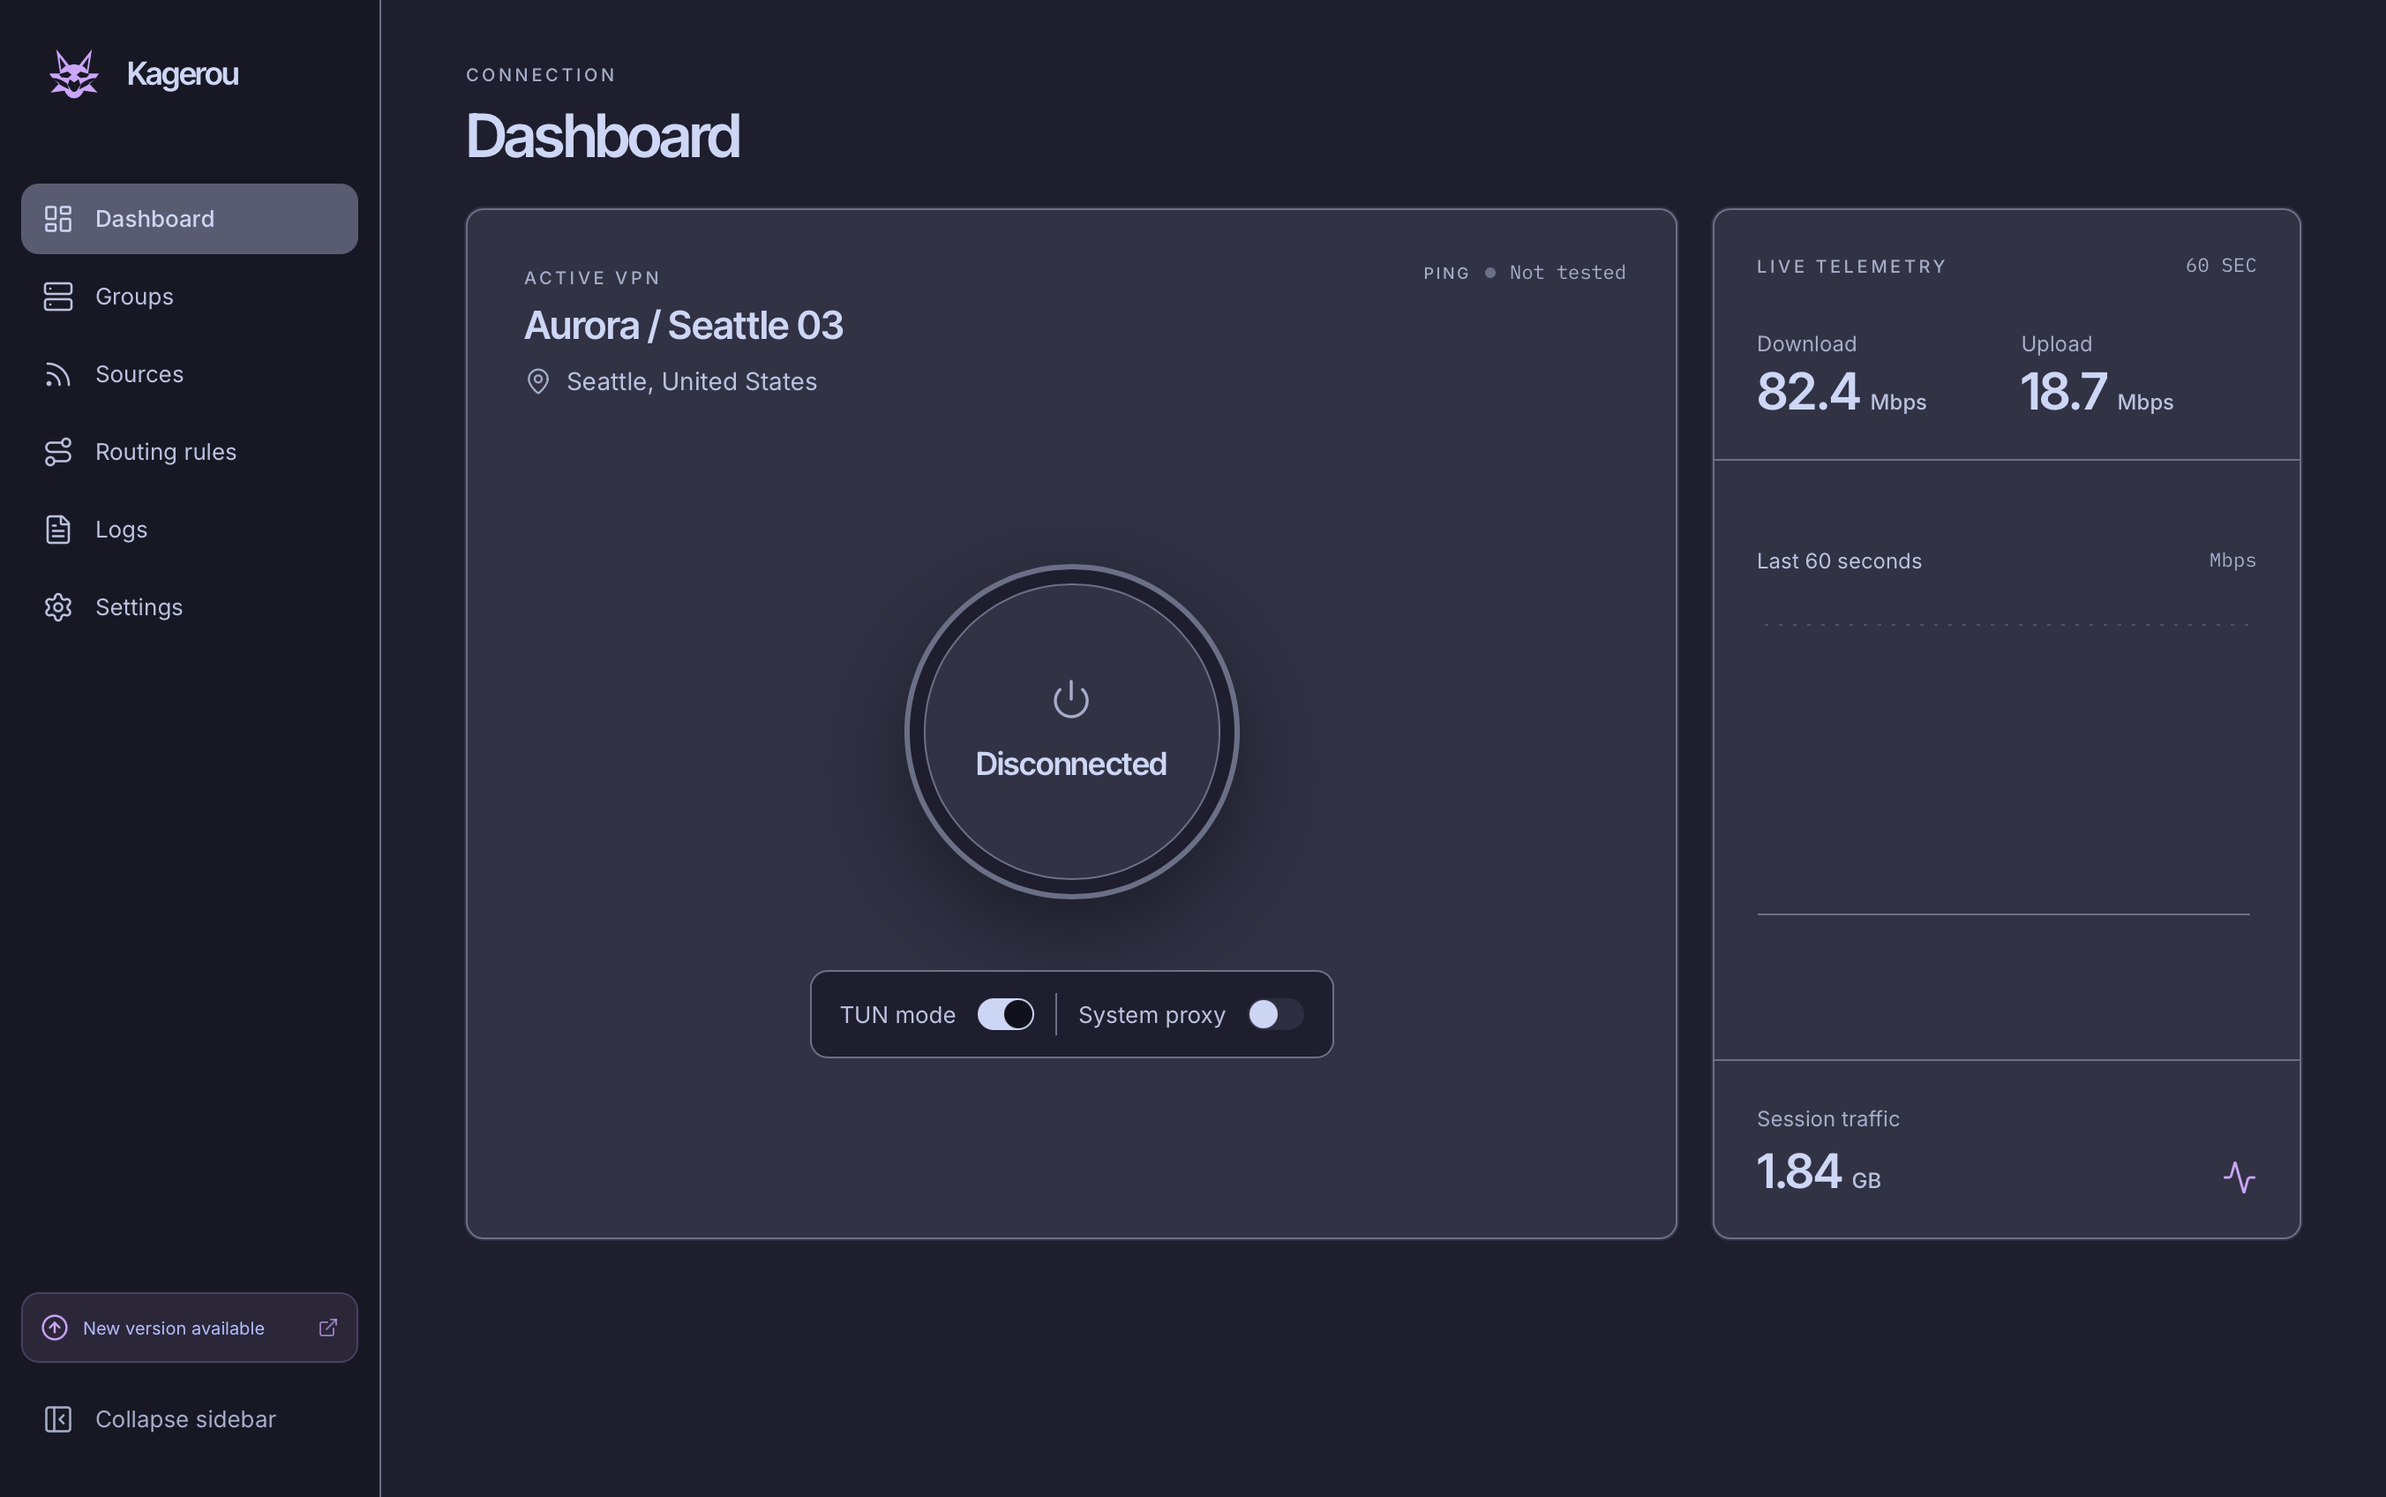
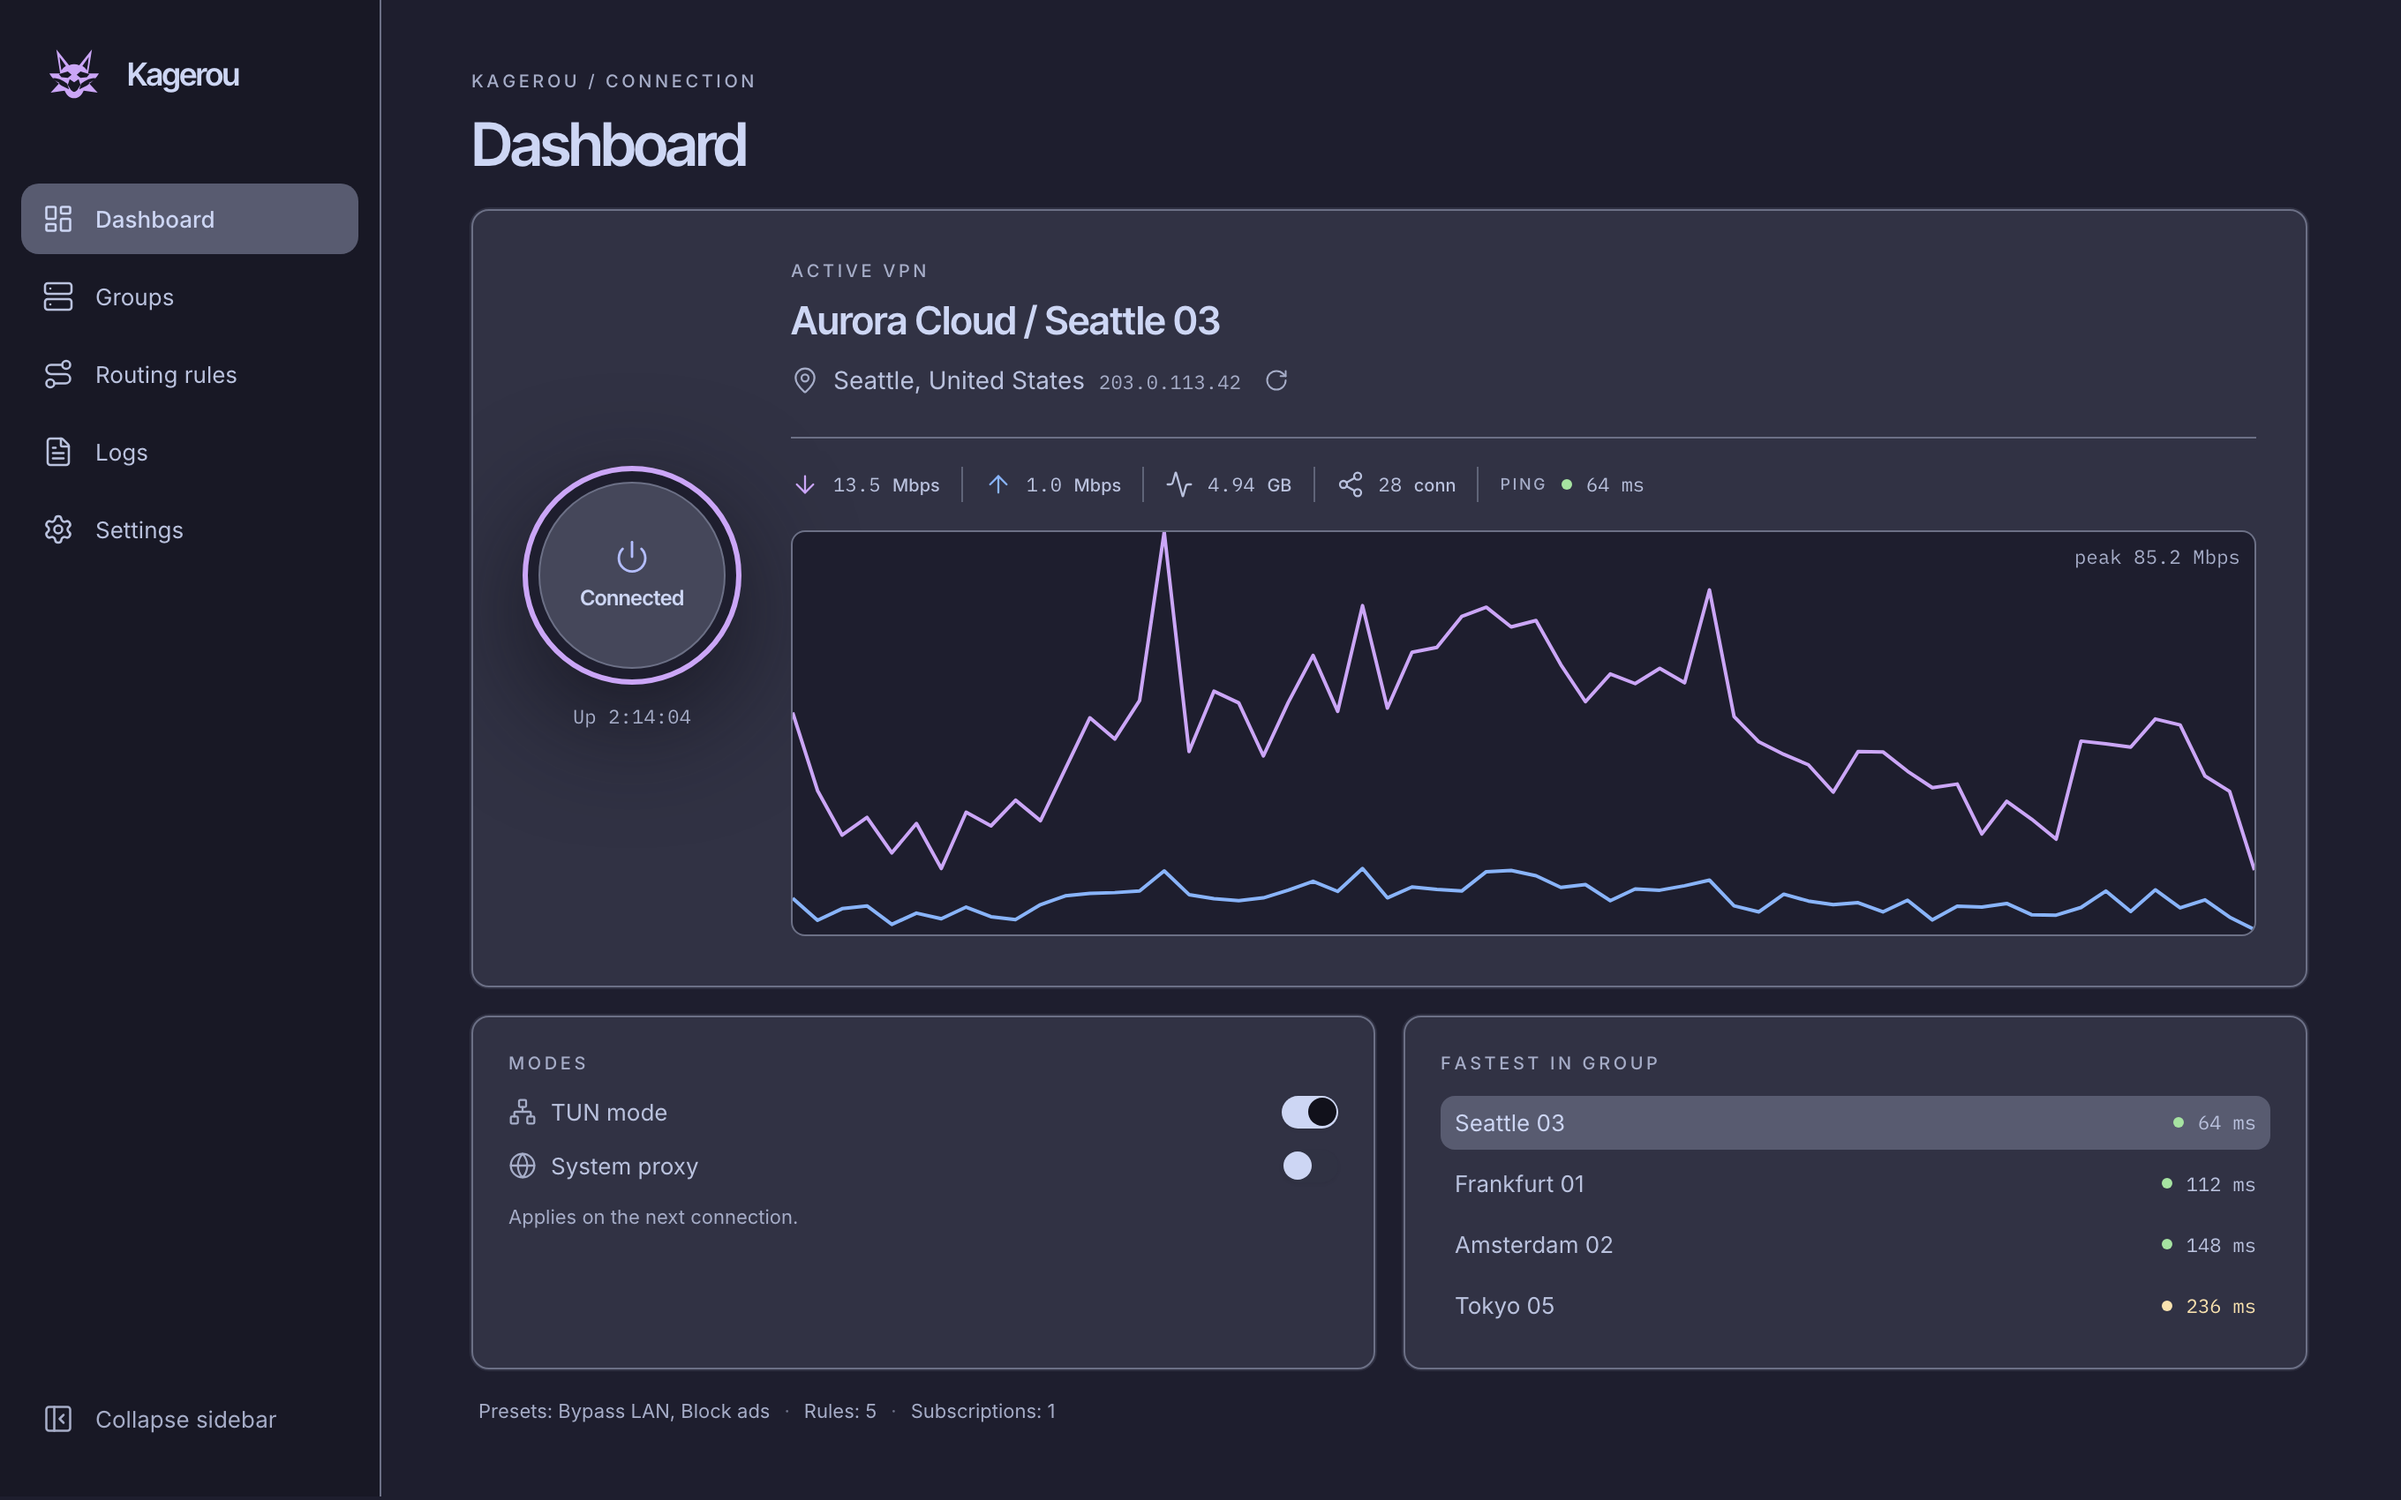
feat: README update

diff --git a/README.md b/README.md
@@ -10,7 +10,7 @@ Built with Rust and Tauri. Available for Windows, macOS, and Linux.
   <img src="assets/screenshots/dashboard.png" alt="Kagerou dashboard" width="100%" />
 </p>
 
-**[Features](#features)** · **[Supported protocols](#supported-protocols)** · **[Getting started](#getting-started)** · **[Development](#development)** · **[Roadmap](ROADMAP.md)** · **[Contributing](CONTRIBUTING.md)**
+**[Features](#features)** · **[Screenshots](#screenshots)** · **[Supported protocols](#supported-protocols)** · **[Getting started](#getting-started)** · **[Development](#development)** · **[Roadmap](ROADMAP.md)** · **[Contributing](CONTRIBUTING.md)**
 
 ## Why Kagerou
 
@@ -54,11 +54,38 @@ Most sing-box clients either expose a configuration file or hide the core behind
 ### Interface
 
 - English and Russian localisation.
-- Catppuccin and Kanagawa themes.
-- Dark, light, and system theme variants.
+- Seven built-in themes: four Catppuccin flavours and three Kanagawa variants, light and dark.
 - Native desktop window and tray integration.
 
 Kagerou is actively evolving. Some controls are already visible while their backend behaviour is still being completed. See [ROADMAP.md](ROADMAP.md) for the exact status of every feature.
+
+## Screenshots
+
+Every VPN, subscription group, and single pasted key on one page.
+
+<p align="center">
+  <img src="assets/screenshots/groups.png" alt="Group list with a subscription group, its profiles, and their latency" width="100%" />
+</p>
+
+Presets for the common cases, plus your own domain, suffix, and CIDR rules.
+
+<p align="center">
+  <img src="assets/screenshots/routing-rules.png" alt="Routing rules page with presets and custom traffic matches" width="100%" />
+</p>
+
+Connection, appearance, startup, and subscription settings, applied as you change them.
+
+<p align="center">
+  <img src="assets/screenshots/settings.png" alt="Settings page" width="100%" />
+</p>
+
+### Themes
+
+Four Catppuccin flavours and three Kanagawa variants, switched in Settings without a restart.
+
+<p align="center">
+  <img src="assets/screenshots/themes.png" alt="The dashboard in all seven themes" width="100%" />
+</p>
 
 ## Supported protocols
 
@@ -79,7 +106,7 @@ Kagerou is actively evolving. Some controls are already visible while their back
 
 Prebuilt bundles are published on the [Releases](https://github.com/binido/Kagerou/releases) page. If you want to run the latest code or build for an unsupported target, build Kagerou locally with Rust, Node.js, and pnpm.
 
-The latest release is [v0.4.0](https://github.com/binido/Kagerou/releases/tag/v0.4.0).
+The latest release is [v0.5.0](https://github.com/binido/Kagerou/releases/tag/v0.5.0).
 
 ### Prerequisites
 
